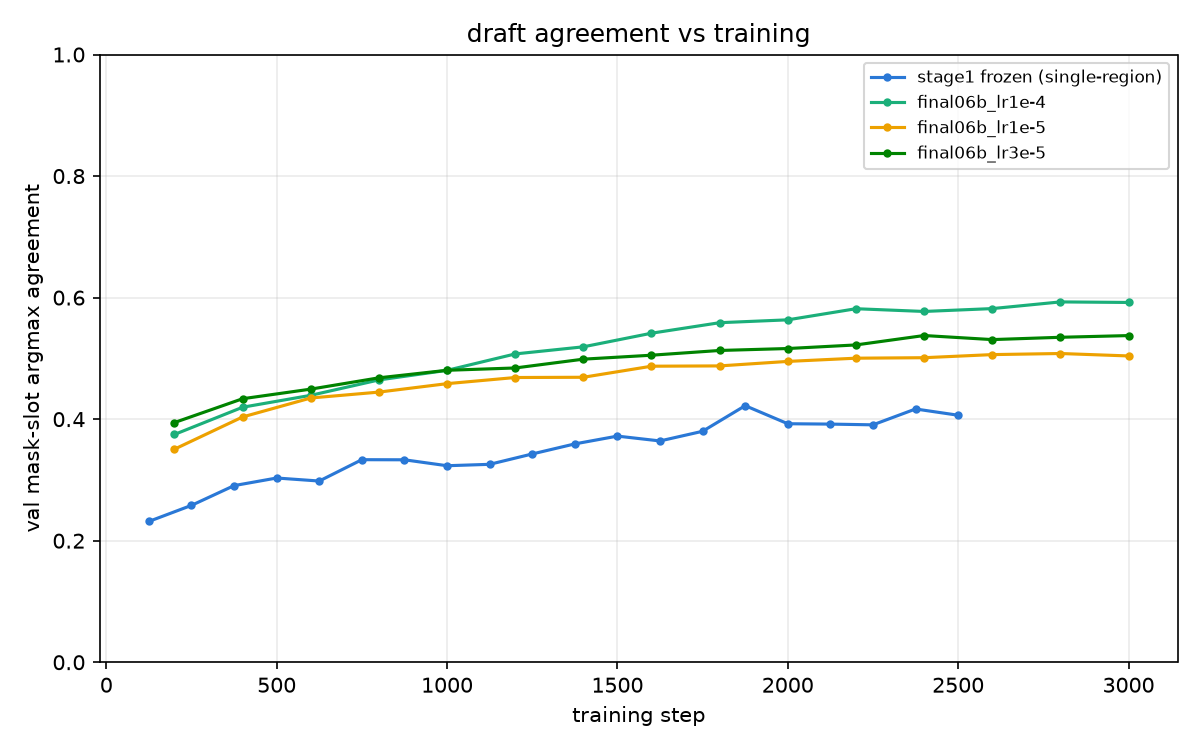
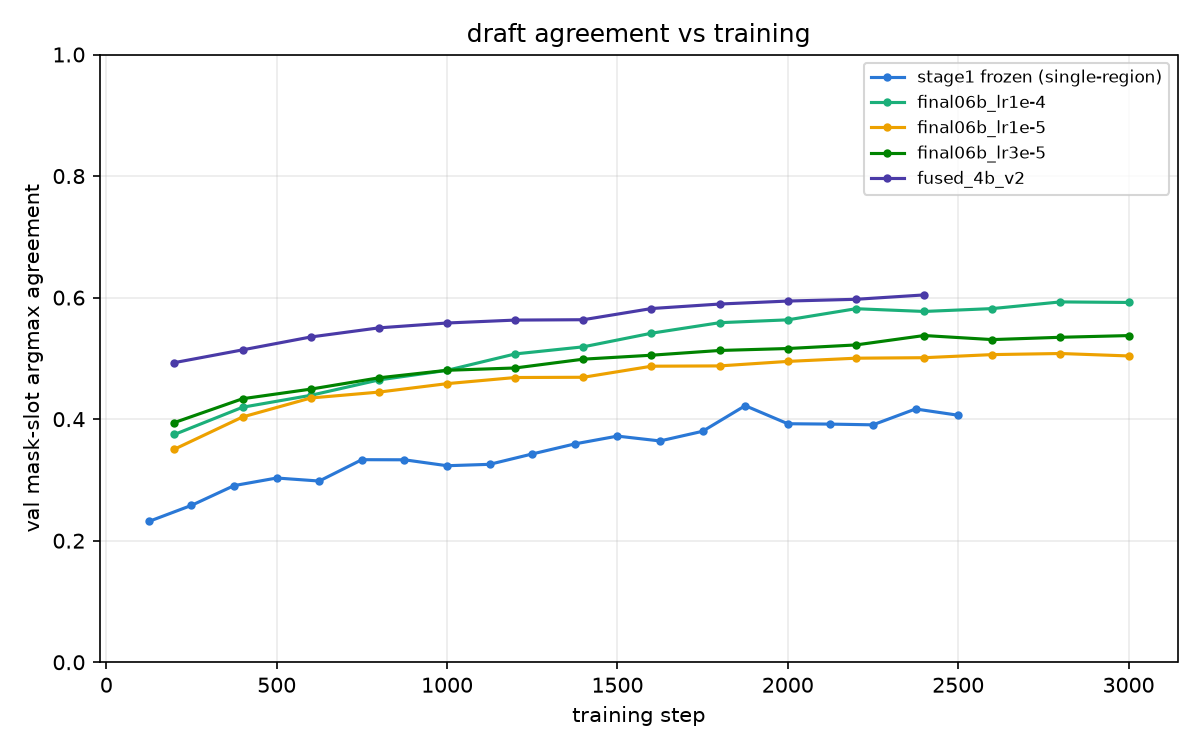
4B temp1.0 tau 5.65 (=dspark 5.64), markov inference ablation (+0.05 tau), markov pretrain arm

diff --git a/scripts/pretrain.py b/scripts/pretrain.py
@@ -191,6 +191,7 @@ def main():
     ap.add_argument("--k-max", type=int, default=8)
     ap.add_argument("--region-every", type=int, default=64)
     ap.add_argument("--attn", default="dense", choices=["dense", "flex"])
+    ap.add_argument("--markov-rank", type=int, default=0)
     ap.add_argument("--compile", action="store_true")
     ap.add_argument("--seed", type=int, default=0)
     ap.add_argument("--out-dir", required=True)
@@ -218,11 +219,23 @@ def main():
                                region_every=args.region_every, max_pairs=512, seed=args.seed)
     use_mask = args.objective == "ntp+mask"
 
+    markov = None
+    if args.markov_rank > 0:
+        markov = torch.nn.ModuleDict({
+            "w1": torch.nn.Embedding(cfg.vocab_size, args.markov_rank),
+            "w2": torch.nn.Linear(args.markov_rank, cfg.vocab_size, bias=False),
+        }).cuda().float()
+        torch.nn.init.normal_(markov["w1"].weight, std=0.02)
+        torch.nn.init.zeros_(markov["w2"].weight)
+
     lr = args.lr or (0.02 if args.optimizer == "aurora" else 3e-3)
     if args.optimizer == "aurora":
         opt = AuroraWrap(model, lr=lr, adamw_lr=args.adamw_lr)
+        if markov is not None:
+            opt.adamw.add_param_group({"params": list(markov.parameters())})
     else:
-        opt = torch.optim.AdamW(model.parameters(), lr=lr, betas=(0.9, 0.95),
+        params = list(model.parameters()) + (list(markov.parameters()) if markov else [])
+        opt = torch.optim.AdamW(params, lr=lr, betas=(0.9, 0.95),
                                 eps=1e-8, weight_decay=0.1)
 
     def lr_scale(step):
@@ -293,6 +306,9 @@ def main():
                 sl = model.lm_head(hs).float()
                 with torch.no_grad():  # full teacher stop-grad (tied lm_head)
                     tl = model.lm_head(ht).float()
+            if markov is not None:
+                prev = pb.ids.cuda().gather(1, pb.teacher_idx.cuda())
+                sl = sl + markov["w2"](markov["w1"](prev)).float()
             pw = pb.pair_w.cuda(); den = pw.sum().clamp(min=1e-6)
             tv = (0.5 * (tl.softmax(-1) - sl.softmax(-1)).abs().sum(-1) * pw).sum() / den
             pce = (F.cross_entropy(sl.flatten(0, 1), pb.hard_labels.cuda().flatten(),